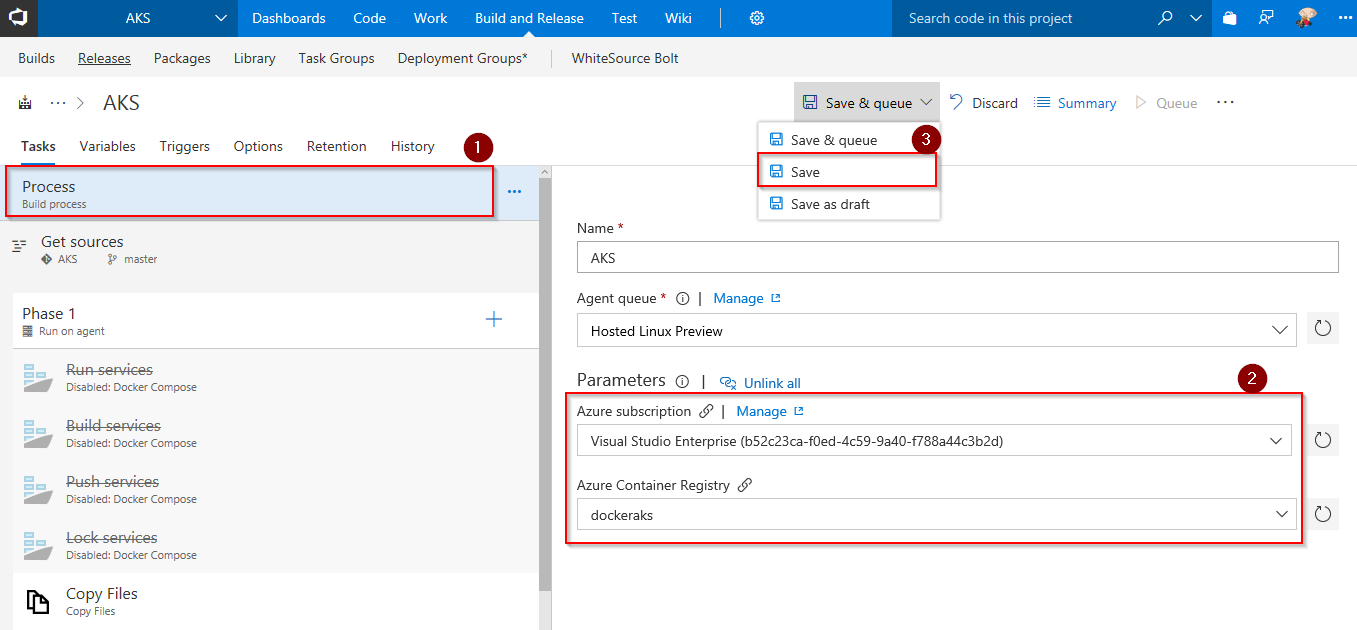
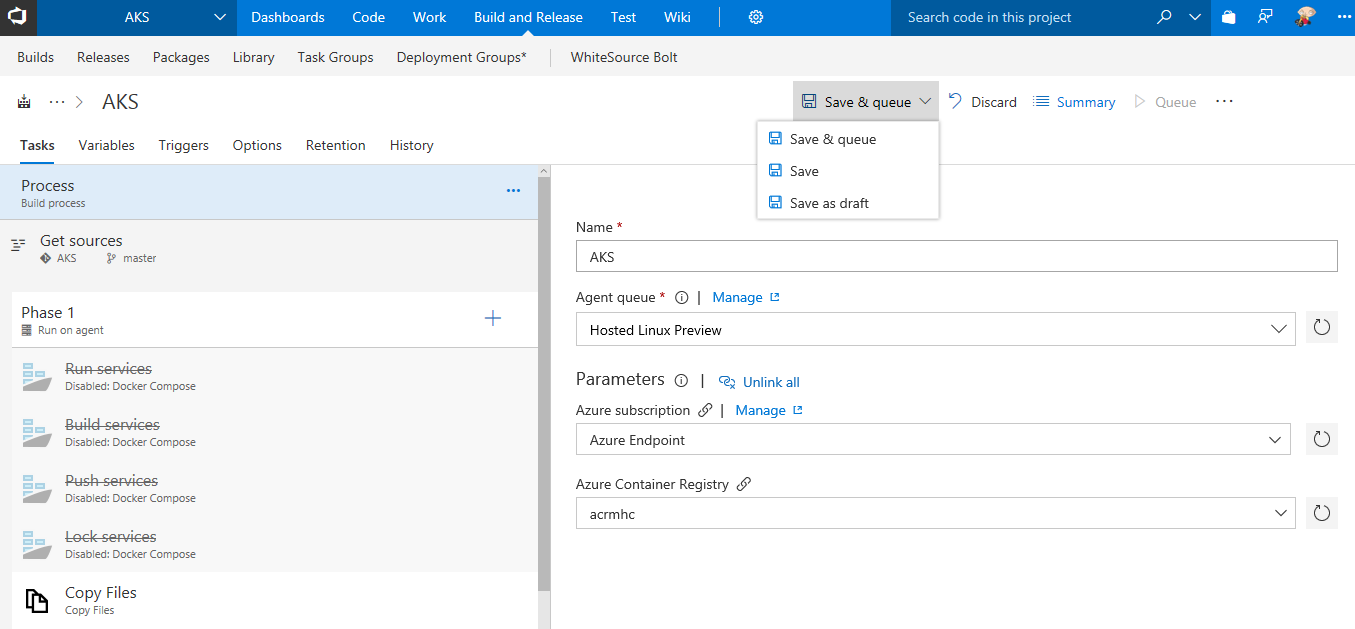
updated content

diff --git a/kubernetes/readme.md b/kubernetes/readme.md
@@ -25,7 +25,7 @@ Below screenshot helps you understand the VSTS DevOps workflow with Docker:
 
 4. Install <a href="https://docs.microsoft.com/en-us/cli/azure/install-azure-cli?view=azure-cli-latest">Azure CLI</a>.
 
-5. Install <a href="https://kubernetes.io/docs/tasks/tools/install-kubectl/">KubeCtl</a>.
+5. Install <a href="https://kubernetes.io/docs/tasks/tools/install-kubectl/">KubeCtl</a>, and make sure kubectl is added to <a href="https://msdn.microsoft.com/en-us/library/office/ee537574(v=office.14).aspx">PATH Environment Variable</a>.
 
 6. Have a pair of public & private <a href="https://www.ssh.com/ssh/keygen/">SSH keys</a>.
 
@@ -99,13 +99,13 @@ We will create an **Azure Container Registry** to store the images generated dur
    <img src="images/akscomponents.png">
  
 
-## Setting up VSTS Project
+## Setting up the VSTS Project
 
 1.  Use <a href="https://vstsdemogenerator.azurewebsites.net/?name=AKS&templateid=77363" target="_blank">VSTS Demo Data Generator</a> to provision a project on your VSTS account 
 
     <img src="images/vstsdemogen.png"> 
 
-2. Select **AKS** for the template. Provide a Project Name, and click on Create Project.
+2. Provide a Project Name, and click on Create Project.
 
    <img src="images/vstsdemogen2.png">
 
@@ -143,11 +143,28 @@ Since the connections are not established during project provisioning, we will m
 
  >Note : You will encounter an error - ***TFS.WebApi.Exception: Page not found*** for Azure tasks in the build/ release definition. This is due to a recent change in the VSTS Release Management API. While we are working on updating VSTS Demo Generator to resolve this issue, you can fix this by typing a random text in the Azure Subscription field and click the **Refresh** icon next to it. Once the field is refreshed, you can select the endpoint from the drop down.
 
+1. Go to **Releases** under **Build & Release** tab, **Edit** the release definition **AKS** and select **Tasks**.
+
+   <img src="images/release.png">
+   <br/>
+   <br/>
+   <img src="images/releasetasks.png">
+
+4. Update **Azure Subscription** from the dropdown. 
+
+    <img src="images/update_CD3.png">
+
+5. Click on **Variables** section, update **SQLserver** with the details noted earlier while setting up the environment. Click **Save**. 
+
+    >Note: **Database Name** is set to **mhcdb**, **Server Admin Login** is **sqladmin** and **Password** is **P2ssw0rd1234**.
+
+    <img src="images/releasevariables.png">
+
 1. Go to **Builds** under **Build and Release** tab, **Edit** the build definition **AKS**.
 
    <img src="images/build.png">
 
-2. Click on **Process** section, select endpoint components from the dropdown under **Azure subscription** and **Azure Container Registry** as shown. Click **Save**.
+2. Click on **Process** section, select endpoint components from the dropdown under **Azure subscription** and **Azure Container Registry** as shown. Click **Save & queue**.
 
     <img src="images/updateprocessbd.png">
 
@@ -186,74 +203,42 @@ Since the connections are not established during project provisioning, we will m
    </tr>
    </table>
 
-3. Go to **Releases** under **Build & Release** tab, **Edit** the release definition **AKS** and select **Tasks**.
-
-   <img src="images/release.png">
-   <br/>
-   <br/>
-   <img src="images/releasetasks.png">
-
-4. Update **Azure Subscription** from the dropdown. 
-
-    <img src="images/update_CD3.png">
-
-5. Click on **Variables** section, update **SQLserver** with the details noted earlier while setting up the environment. Click **Save**. 
-
-    <img src="images/releasevariables.png">
-
-    >Note: **Database Name** is set to **mhcdb**, **Server Admin Login** is **sqladmin** and **Password** is **P2ssw0rd1234**.
-
-6. Click on **Builds** tab and then click on build definition **AKS**. 
-
-    <img src="images/selectbd.png">
-
-7. Queue a build by clicking **Queue new build**. Click on **Queue** in the pop-up window.
-
+6. Click on **Save & queue** in the pop-up window.
+    
     <img src="images/queuebuild.png">
 
-    The build will copy the dacpac to artifacts folder, which will be used in release for deploying this dacpac to database you created earlier. After this step is complete, the database schema will be deployed to SQL Database **mhcdb**.
+7. Click **Releases** and double click on latest release. Go to **logs** section to see the release summary.
+
+    The build will copy the dacpac to artifacts folder, which will be used in release for deploying this dacpac to database you created earlier. After this step is complete, the database schema along with pre-configured data will be deployed to SQL Database **mhcdb**
 
     <img src="images/dacpac_deployment.png">
 
-8. Navigate to release definition **AKS** under **Releases** tab, and click on **Edit**. Click on **Tasks** and select **Phase1**. Under **Agent queue** select **Hosted Linux Preview** .
+8. Navigate to release definition **AKS** under **Releases** tab, and click on **Edit**. Right click on task **Execute Azure SQL : DacpacTask**, and select **Disable Selected Task(s)**. 
 
-    <img src="images/selectagent.png">
+    <img src="images/disable_rdtask.png">
 
+    Right click on **Create Deployments & Services in AKS** task, and **Update image in AKS** task. Select **Enable Selected Task(s)**.
 
-9. Right click on task **Execute Azure SQL : DacpacTask**, and select **Disable Selected Task(s)**. After this, right click on **Create Deployments & Services in AKS** task, and **Update image in AKS** task. Select **Enable Selected Task(s)**.
-
-    <img src="images/enabletasks_rd.png">
+    <img src="images/enable_rdtask.png">
 
 10. Under **Create Deployments & Services in AKS** task, update **Kubernetes Service Connection**, **Azure subscription** and  **Azure Container Registry** with the endpoint components from the dropdown. Repeat the same steps for **Update image in AKS** task. Click **Save**.
 
-    <img src="images/updatedrd.png">
+    <img src="images/update_rd.png">
 
     a. **Create Deployments & Services in AKS** will create deployments and services in AKS as per configuration specified in **mhc-aks.yaml** file.
 
-    b. **Update image in AKS** will pull the appropriate image corresponding to the BuildID from repository specified, and deploys the image to **mhc-front pod** running in AKS. 
+    b. **Update image in AKS** will pull the appropriate image corresponding to the BuildID from repository specified, and deploys the image to **mhc-front pod** running in AKS.
 
 
 ## Exercise 3: Update Connection String
 
-Now that the database schema is set, we will push some data into the tables and update the connection string in MyHealthClinic .NetCore application.
+Now that the database schema and data is set, we will update the connection string in MyHealthClinic .NetCore application.
 
-1. Click on **Code** tab, and navigate to **healthclinic.sql** file. Copy entire content of this file.
-
-    <img src="images/copysql.png">   
-
-2. Switch to **Azure Portal**, and navigate to **mhcdb** SQL database which you created at the beginning of this lab. Click on **Data Explorer** and **Login**. Under authorization type **SQL server authentication** provide database **Login: sqladmin** and **Password: P2ssw0rd1234**. Click **OK**. 
-
-    <img src="images/dblogin.png">   
-
-3. Under **Query** section, paste the content copied from **healthclinic.sql** file as shown, and click on **Run**. This will now push required data into the database, so that our sample application MyHealthClinic could interact with it. Verify that message **Query succeeded** is displayed at the bottom. 
-
-    <img src="images/pastesql.png"> 
-
-4.  Scroll down and select **Connection Strings** section. Copy the contents as shown.
+1. Switch to **Azure Portal**, and navigate to **mhcdb** SQL database which you created at the beginning of this lab. Scroll down and select **Connection Strings** section. Copy the contents as shown.
 
     <img src="images/copy_connectionstring.png"> 
 
-5. Switch to your VSTS account. Go to **Code** tab, and navigate to the below path to **edit** the file **appsettings.json** 
+2. Switch to your VSTS account. Go to **Code** tab, and navigate to the below path to **edit** the file **appsettings.json** 
 
     >AKS/src/MyHealth.Web/appsettings.json
 
@@ -261,66 +246,15 @@ Now that the database schema is set, we will push some data into the tables and 
 
    <img src="images/pasteconnectionstring.png">
 
+## Exercise 4: Enable CI and Update Code to Trigger CI-CD
 
-## Exercise 4: Update Secret
-
-1. To access Azure Container Registry from AKS, you need to create a secret. From commandline, use **az login** to access your azure account 
-
-2. To connect to the Kubernetes cluster from your computer, use **kubectl**, the Kubernetes command-line client.
-
-    For installing it locally, run the following command:
-
-    >az aks install-cli
-
-**Connect with kubectl:**
-
-To configure kubectl to connect to your Kubernetes cluster, run the following command:
-
-
->az aks get-credentials --resource-group=myResourceGroup --name=myK8sCluster
-
-
-
->kubectl create secret docker-registry SECRET_NAME --docker-server=REGISTRY_NAME.azurecr.io --docker-username=USERNAME --docker-password=PASSWORD --docker-email=ANY_VALID_EMAIL
-
-
-**Create a secret called as acrconnection**
-
-Get the current configuration of the ServiceAccount
-
->kubectl get serviceaccounts default -o yaml > ./serviceaccount.yml
-
-Add below line to the end of the **serviceaccount.yml** file:
-
->imagePullSecrets: </br>
--name: acrconnection
-
-Replace the current configuration of the ServiceAccount with this new one:
->kubectl replace serviceaccount default -f ./serviceaccount.yml
-
-Now when we deploy images located in our Azure Container Registry, the images can be pulled by Kubernetes.
-
-**To access AKS through browser:**
-
->az aks browse --resource-group AKS-RG1 --name aks
-
-<img src="images/aksbrowse.png">
-
-</br>
-
-**AKS Dashboard:**
-
-<img src="images/aksdashboard.png">
-
-## Exercise 4: Enable CI and Update Code
-
-In this excercise, we will enable the continuous integration trigger to create a new build for each commit to the master branch, and update the code to trigger CI-CD. As per instructions mentioned in **mhc-aks.yml** file the required Pods and Services are created in AKS. Our application is deployed behind a loadbalancer with the Redis cache.
+In this excercise, we will enable the continuous integration trigger to create a new build for each commit to the master branch, and update the code to trigger CI-CD. As per instructions mentioned in **mhc-aks.yml** file the required Pods and Services will be created in AKS. Our application is designed to be deployed behind a loadbalancer with the Redis cache.
 
 1. Go to **Builds** under **Build and Release** tab, **Edit** the build definition **Docker**.
 
    <img src="images/build.png">
 
-2. Right click on each task **Run Services**, **Build Services**, **Push Services** and **Lock Services** one by one (or use Ctrl+Click to select multiple tasks, and then right click). Select **Enable Selected Task(s)** to enable all of these tasks. Disable **Copy Files** and **Publish Artifact** tasks by selecting **Disable Selected Task(s)** after right clicking on each of them.
+2. Right click on each task **Run Services**, **Build Services**, **Push Services** and **Lock Services** one by one (or use Ctrl+Click to select multiple tasks, and then right click). Select **Enable Selected Task(s)** to enable all of these tasks.
 
     <img src="images/enabletasks_bd.png">
 
@@ -330,49 +264,60 @@ In this excercise, we will enable the continuous integration trigger to create a
 
 4. Go to **Code** tab, and navigate to the below path to edit the file- 
 
-   >Docker/src/MyHealth.Web/Views/Home/**Index.cshtml**
+   >AKS/src/MyHealth.Web/Views/Home/**Index.cshtml**
 
    <img src="images/editcode.png">
 
-2. Go to line number **28**, update **JOIN US** to **JOIN US!!!**, and click **Commit**.
+5. Go to line number **28**, update **JOIN US** to **JOIN US TODAY**, and click **Commit**.
 
     <img src="images/lineedit.png">
 
-3. Go to **Builds** tab to see the CI build in progress.
+6. Go to **Builds** tab to see the CI build in progress.
 
-    <img src="images/in_progress_build.png">
+    <img src="images/buildinprog1.png">
 
-4. The build will generate and push the image to ACR. After build completes, you will see the build summary. 
+7. The build will generate and push the image to ACR. After build completes, you will see the build summary. 
     
-    <img src="images/build_summary.png">
+    <img src="images/buildsucceeded.png">
+
+8. To see the generated images in Azure Portal, go to **Azure Container Registry** and navigate to **Repositories**.
+
+    <img src="images/imagesinrepo.png">
    
+9. Go to **Releases** tab, and double click on latest release. Go to **logs** to see the release summary.
 
-5. Go to **Releases** tab to see the release summary.
+    <img src="images/release_summary.png">
 
-    <img src="images/releasesummary.png">
-
-6. Go to commandline and run below command to see the pods:
+10. Once the release is complete, go to commandline and run below command to see the pods running in AKS:
 
     >kubectl get pods
 
     <img src="images/getpods.png">
 
-    <br/> 
-
-8. To get the IP address, run below command. If you see that External-IP is pending, wait for a while until an IP is assigned.
+11. To access your application, run the below command. If you see that External-IP is pending, wait for a while until an IP is assigned.
 
     >kubectl get service mhc-front --watch
 
     <img src="images/watchfront.png">
  
-9. Copy External-IP and paste it in your browser.
+12. Copy External-IP and paste in your browser.
 
-    <img src="images/endresult.png">
+    <img src="images/finalresult.png">
 
-8. To see the generated images in Azure Portal, go to **Azure Container Registry** and navigate to **Repositories**.
+    **To access AKS through browser:**
 
-    <img src="images/imagesinrepo.png">
+    >az aks browse --resource-group AKSRG --name aks
 
+    <img src="images/aksbrowse.png">
+
+    </br>
+
+    **AKS Dashboard:**
+
+    <img src="images/aksdashboard.png">
+
+
+    >Note: To execute CI-CD for next time, update release definition **AKS** by disabling **Create Deployments & Services in AKS** task, and enabling **Update image in AKS** task. This is to update the image every time build is done without disturbing the deployments and services in Kubernetes.
 
 ## Summary
 
